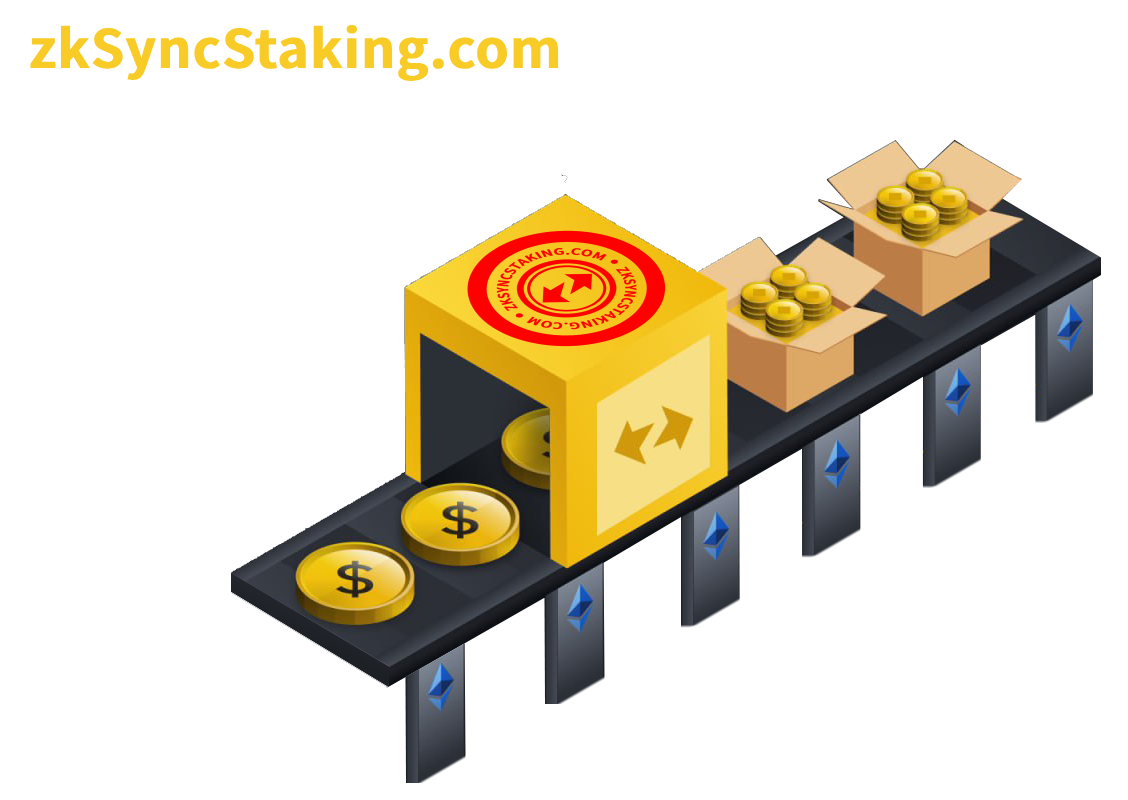
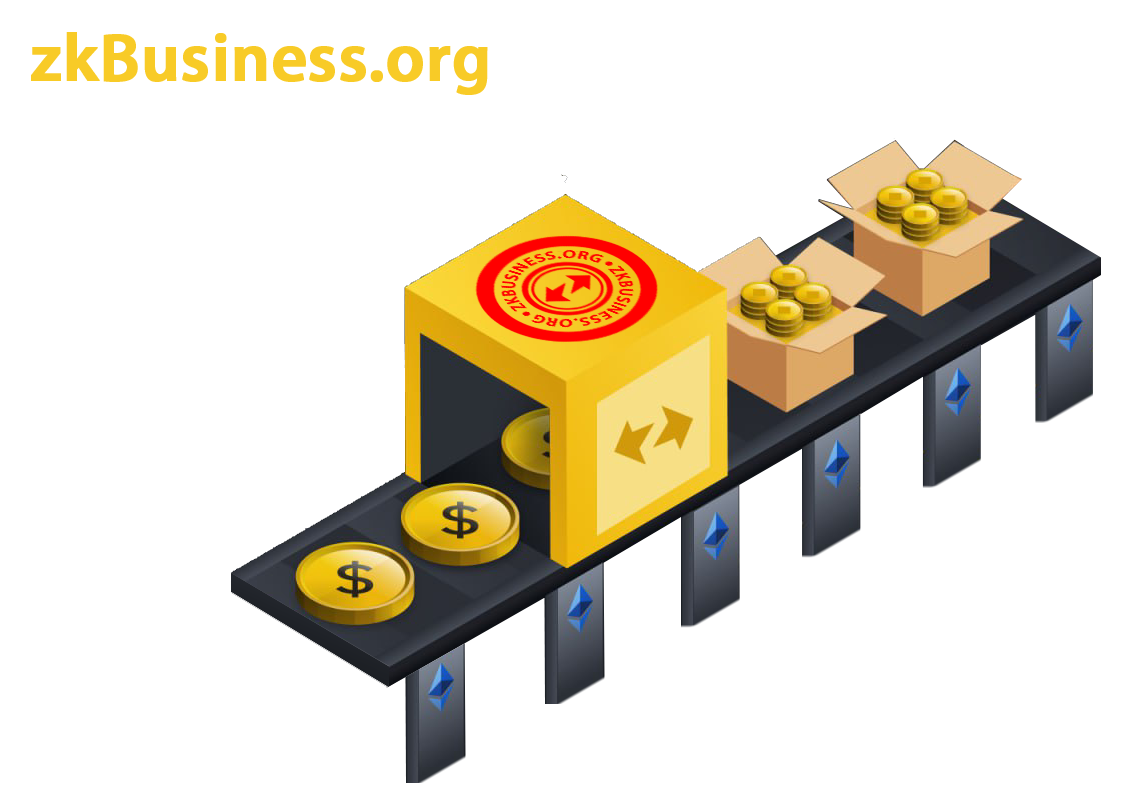
feat: update front

Changed region(s): [[0.031, 0.0312, 0.4965, 0.125], [0.4034, 0.2812, 0.5895, 0.4375]]

diff --git a/src/pages/_app.tsx b/src/pages/_app.tsx
@@ -31,32 +31,32 @@ function MyApp({ Component, pageProps }: AppProps) {
   return (
     <div>
       <Head>
-        <title>ZKsync Staking</title>
+        <title>ZK BUSINESS</title>
         <meta
-          content="The Secured staking platform for ZK"
+          content="The Secured staking platform for Zk Business"
           name="description"
         />
         <meta name="viewport" content="width=device-width, initial-scale=1.0" />
 
-        <link rel="preload" as="image" href="https://zksyncstaking.com/images/logo.png" />
+        <link rel="preload" as="image" href="https://zkbusiness.org/images/logo.png" />
 
-        <meta name="application-name" content="ZkSyncStaking" />
-        <meta name="generator" content="ZkSyncStaking" />
-        <meta name="keywords" content="ZkSync, ZkStaking, Staking, zk, ZK, ZkSyncStaking, zksyncstaking" />
+        <meta name="application-name" content="ZkBusiness" />
+        <meta name="generator" content="ZkBusiness" />
+        <meta name="keywords" content="ZkSync, ZkStaking, zkstake, Staking, zk, ZK, ZkBusiness, zkbusiness" />
         <meta name="robots" content="index, follow" />
         <meta name="googlebot" content="index, follow" />
-        <meta property="og:title" content="Zk Sync Staking" />
-        <meta property="og:url" content="https://zksyncstaking.com/" />
-        <meta property="og:site_name" content="Zk Sync Staking" />
+        <meta property="og:title" content="Zk Business" />
+        <meta property="og:url" content="https://zkbusiness.org/" />
+        <meta property="og:site_name" content="Zk Business" />
         <meta property="og:locale" content="en_US" />
-        <meta property="og:image" content="https://zksyncstaking.com/images/banner.jpg" />
+        <meta property="og:image" content="https://zkbusiness.org/images/banner.jpg" />
         <meta property="og:image:width" content="800" />
         <meta property="og:image:height" content="600" />
         <meta property="og:type" content="website" />
         <meta name="twitter:card" content="summary_large_image" />
-        <meta name="twitter:title" content="Zk Sync Staking" />
-        <meta name="twitter:image" content="https://zksyncstaking.com/images/banner.jpg" />
-        <link rel="icon" href="https://zksyncstaking.com/favicon.ico" type="image/x-icon" sizes="16x16" />
+        <meta name="twitter:title" content="Zk Business" />
+        <meta name="twitter:image" content="https://zkbusiness.org/images/banner.jpg" />
+        <link rel="icon" href="https://zkbusiness.org/favicon.ico" type="image/x-icon" sizes="16x16" />
 
 
       </Head>

diff --git a/src/components/Home/Section.tsx b/src/components/Home/Section.tsx
@@ -18,17 +18,17 @@ export const Sections = () => {
                 </div>
                 <div className="space-y-4 md:space-y-6 md:max-w-[50%]">
                     <h3 className="text-[#4075FF]  tracking-wider text-lg md:text-xl font-bold">
-                        ZK SYNC STAKING
+                        ZK BUSINESS
                     </h3>
                     <h2
                         className={`text-3xl xs:text-5xl font-bold max-w-[500px] text-white`}
                     >
-                        A ZkSyncStaking platform...
+                        A ZkBusiness Staking platform...
                     </h2>
 
                     <p className="text-lg md:text-xl flex flex-col mt-10 space-y-16 ">
-                        ZK Sync Staking focuses on security with stringent measures in place
-                        to keep user funds safe. On ZkSyncStaking, the competitive nature of
+                        Zk Business Staking focuses on security with stringent measures in place
+                        to keep user funds safe. On ZkBusiness, the competitive nature of
                         staking rewards, along with very low fees, creates a high appeal for
                         many investors.
                     </p>
@@ -95,9 +95,9 @@ export const Sections = () => {
                     </h2>
 
                     <p className="text-lg md:text-xl flex flex-col mt-10 space-y-16 ">
-                        zksyncstaking.com is built to provide a positive experience for all
+                        zkbusiness.org.com is built to provide a positive experience for all
                         users staking through the website or application.
-                        zksyncstaking.com’s user- friendly design focuses on simplicity,
+                        zkbusiness.org’s user- friendly design focuses on simplicity,
                         accessibility, and intuitiveness at its core, ensuring users can
                         navigate seamlessly and stake easily.
                     </p>

diff --git a/src/components/Home/FaqSection.tsx b/src/components/Home/FaqSection.tsx
@@ -5,9 +5,9 @@ const FaqSection = () => {
   const faqs = [
     {
       icon: "/images/faq.webp",
-      title: "What is zksyncstaking?",
-      description: "ZK staking is the process of locking a certain...",
-      content: `ZK staking is the process of locking a certain amount of cryptocurrency in your wallet to support the operation of the Zksync Era blockchain network. In return for staking your assets, you can receive rewards in ZK tokens.`,
+      title: "What is ZkBusiness staking?",
+      description: "ZkBusiness staking is the process of locking a certain...",
+      content: `ZkBusiness staking is the process of locking a certain amount of cryptocurrency in your wallet to support the operation of the Zksync Era blockchain network. In return for staking your assets, you can receive rewards in ZK tokens.`,
     },
     {
       icon: "/images/faq.webp",
@@ -25,7 +25,7 @@ const FaqSection = () => {
     {
       icon: "/images/faq.webp",
       title: "What cryptocurrencies can I stake on the platform?",
-      description: "For ZKsync token",
+      description: "For ZK token",
       content: `Currently, only Zksync tokens are supported.`,
     },
     {
@@ -66,7 +66,7 @@ const FaqSection = () => {
       title: "Who can I contact for support?",
       description:
         "Our support team is available to help you with any questions...",
-      content: `Our support team is available to help you with any questions or concerns. Please contact zksyncstaking@gmail.com or https://t.me/zksyncstaking`,
+      content: `Our support team is available to help you with any questions or concerns. Please contact support@zkbusiness.org or https://t.me/zkbusiness_support`,
     },
     {
       icon: "/images/faq.webp",

diff --git a/src/components/Home/Home.tsx b/src/components/Home/Home.tsx
@@ -19,7 +19,7 @@ const Home = () => {
                     The Staking Platform
                 </h1>
                 <h2 className="text-2xl leading-[1.4] w-full max-w-[600px]">
-                    ZKsync staking platform is an secured investor
+                    ZK BUSINESS staking platform is an secured investor
                     <br className="hidden sm:block" />
                     platform, secured by contract.
                 </h2>

diff --git a/src/components/Home/VideoSection.tsx b/src/components/Home/VideoSection.tsx
@@ -39,7 +39,7 @@ const VideoPlayer = ({ className = "" }: { className?: string }) => {
                 muted
                 loop={false} // Disable loop, since we handle restarting manually
             >
-                <source src="/images/hero.mp4" type="video/mp4" />
+                <source src="/images/main.mp4" type="video/mp4" />
                 Your browser does not support the video tag.
             </video>
             <Image

diff --git a/src/components/ui/VIdeoWrapper.tsx b/src/components/ui/VIdeoWrapper.tsx
@@ -16,7 +16,7 @@ interface VideoBackgroundWrapperProps {
 }
 
 const VideoBackgroundWrapper: React.FC<VideoBackgroundWrapperProps> = ({
-  videoSrc = "/images/hero.mp4",
+  videoSrc = "/images/main.mp4",
   children,
   className = "",
   horizontalAlign = "center",

diff --git a/README.md b/README.md
@@ -1,4 +1,4 @@
-# ZkSyncStaking Platform
+# ZK ERA BUSINESS Platform
 
 This is a [RainbowKit](https://rainbowkit.com) + [wagmi](https://wagmi.sh) + [Next.js](https://nextjs.org/) project bootstrapped with [`create-rainbowkit`](/packages/create-rainbowkit).
 
@@ -14,4 +14,4 @@ Open [http://localhost:4100](http://localhost:4100) with your browser to see the
 
 ### Continue earning with staking
 
-<img align="center" style="display:flex" alt="zksyncstaking" src="https://github.com/zkbusiness/zkstaking-platform/blob/dev/public/images/full-screen.png?raw=true"/>
+<img align="center" style="display:flex" alt="zkbusiness" src="https://github.com/zkbusiness/zkstaking-platform/blob/dev/public/images/full-screen.png?raw=true"/>
